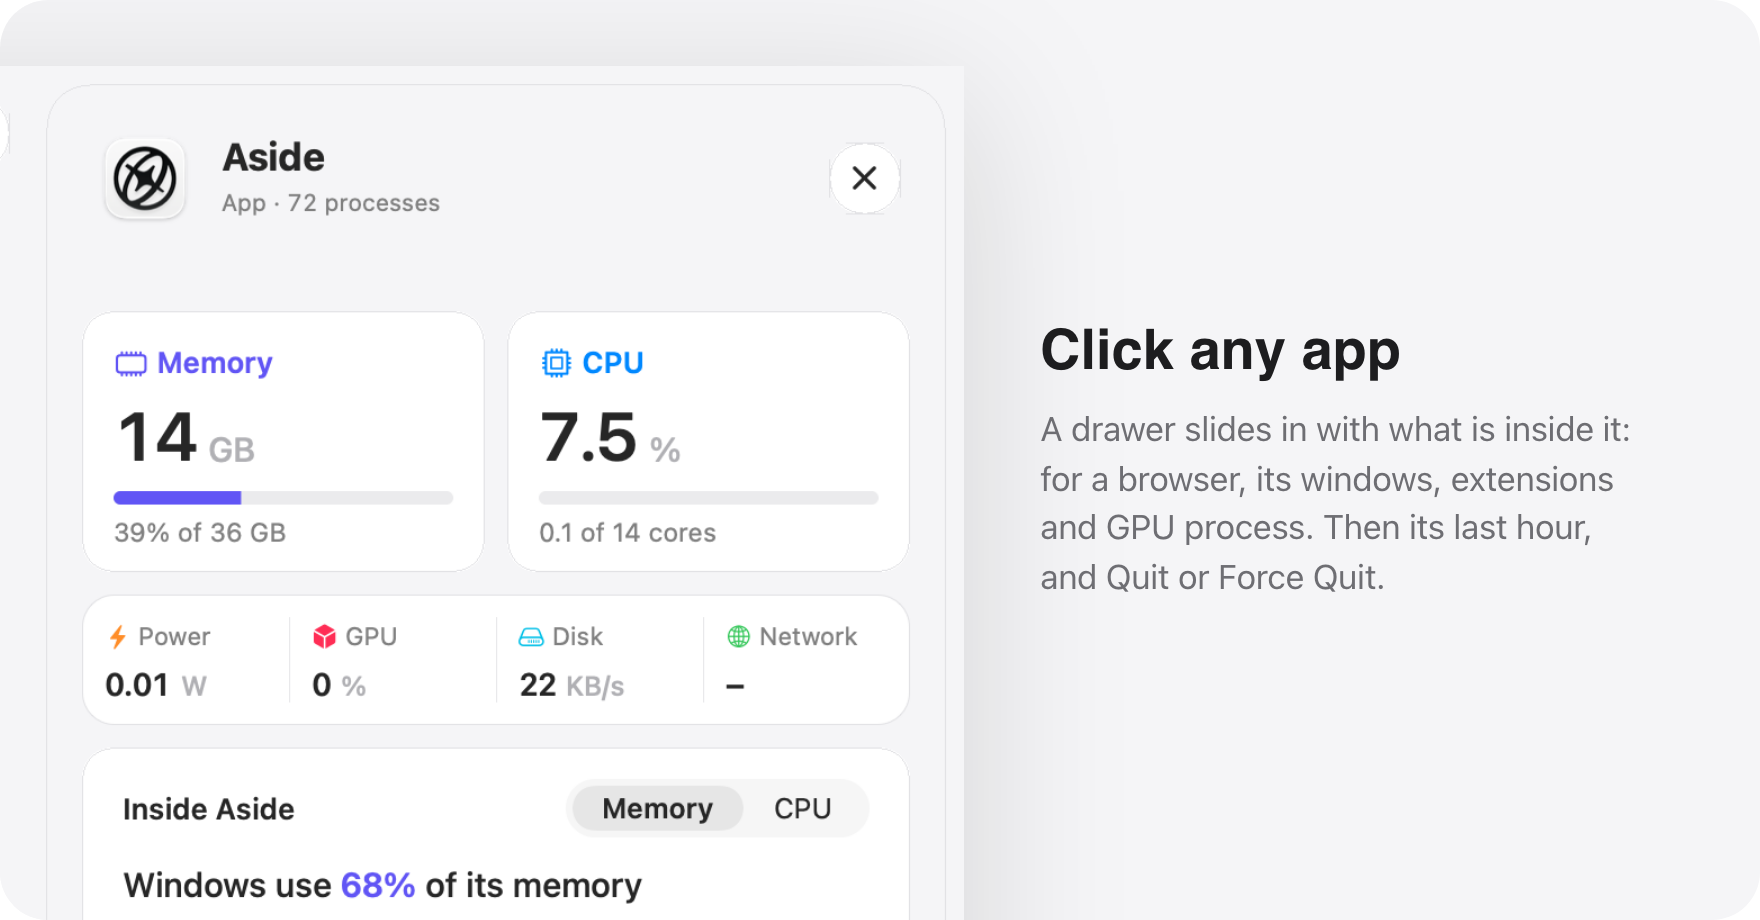
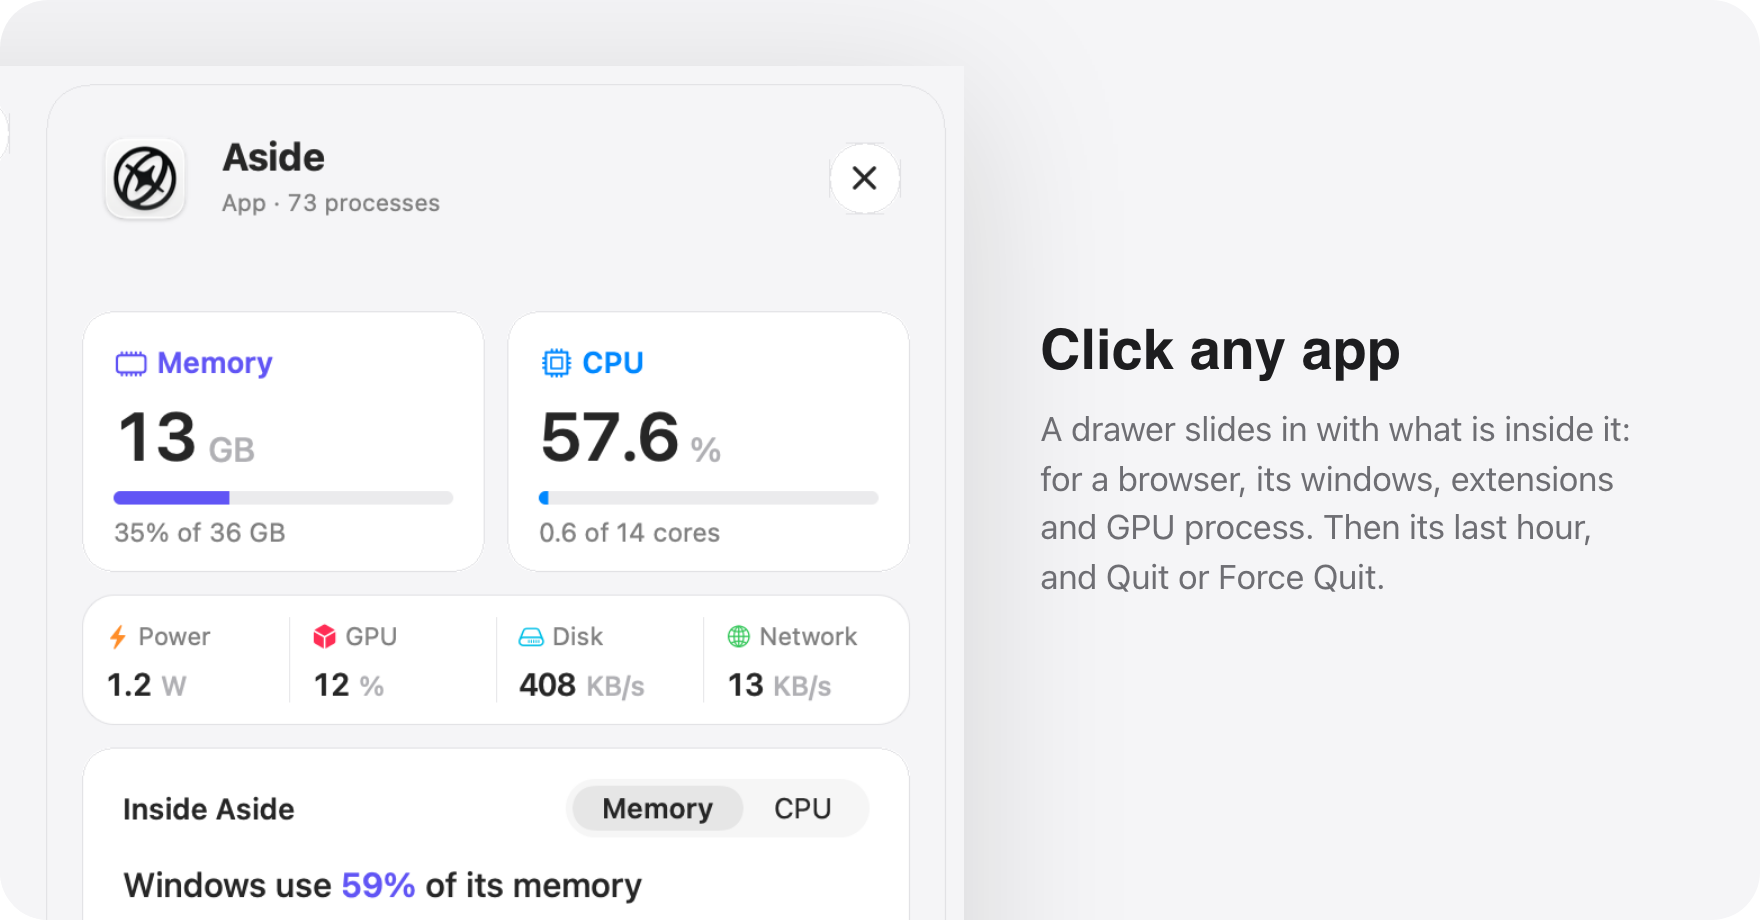
README: Why is it slow, Storage, Login & Background and per-app network, with new graphics

diff --git a/README.md b/README.md
@@ -4,7 +4,7 @@
 
 <h1 align="center">Wisp</h1>
 
-<p align="center">See which app is using your Mac, from a monitor that barely uses it.</p>
+<p align="center">Find out which app is slowing your Mac down and why, from a monitor that barely uses it.</p>
 
 <p align="center">
   <a href="https://wisp-mac.com">Website</a>
@@ -25,9 +25,11 @@
 
 Activity Monitor lists processes, and Chrome alone is forty of them. Wisp adds
 them up under the app they belong to and shows CPU, memory, GPU, power, disk and
-network per app, with a day of history by the minute and a year by the hour. It
-also keeps an eye on what developers leave running: dev servers and their ports,
-Docker containers, and coding agents like Claude Code and Codex.
+network per app, with a day of history by the minute and a year by the hour.
+Click Why Is It Slow? and it tells you in a sentence what is holding the Mac
+back. It also shows where your disk space went, what starts at login, and what
+developers leave running: dev servers and their ports, Docker containers, and
+coding agents like Claude Code and Codex.
 
 ## What it costs
 
@@ -73,8 +75,22 @@ this light and how to measure it yourself.</sub>
 
 <p>
 <picture>
+  <source media="(prefers-color-scheme: dark)" srcset="docs/images/why-dark.png">
+  <img src="docs/images/why-light.png" alt="Why Is It Slow? on the Overview page: limactl is holding 20 GB and macOS has compressed 12 GB to make room, and 21 dev servers are using 6.2 GB together. Each finding has a Show button.">
+</picture>
+</p>
+
+<p>
+<picture>
   <source media="(prefers-color-scheme: dark)" srcset="docs/images/drawer-dark.png">
-  <img src="docs/images/drawer-light.png" alt="Click any app: the drawer for the Aside browser shows 14 GB of memory, its CPU, power, GPU, disk and network, and what is inside it, with windows using 68% of its memory.">
+  <img src="docs/images/drawer-light.png" alt="Click any app: the drawer for the Aside browser shows 13 GB of memory, its CPU, power, GPU, disk and network, and what is inside it, with windows using 59% of its memory.">
+</picture>
+</p>
+
+<p>
+<picture>
+  <source media="(prefers-color-scheme: dark)" srcset="docs/images/storage-dark.png">
+  <img src="docs/images/storage-light.png" alt="The Storage page: 171 GB free of 995 GB, the disk split into apps, developer folders, documents and System Data, and the Developer list with Colima at 76 GB, Rust target folders at 50 GB and node_modules in 101 projects at 30 GB.">
 </picture>
 </p>
 
@@ -94,9 +110,17 @@ this light and how to measure it yourself.</sub>
 
 <br>
 
-- CPU, memory, GPU, Neural Engine, power, disk, network, sound, Bluetooth and
-  sensors, each with live, hourly and daily charts and the apps behind the
-  numbers. GPU time per app comes from the driver.
+- CPU, memory, GPU, Neural Engine, battery, storage, network, sound, Bluetooth
+  and sensors, each with live, hourly and daily charts and the apps behind the
+  numbers. Spikes on the charts are labelled with the app that caused them. GPU
+  time per app comes from the driver.
+- Storage: what fills the disk, including System Data and developer folders
+  like node_modules, DerivedData and VM disks. Items that are safe to remove go
+  to the Trash after you confirm.
+- Per app: the hosts it is connected to, the data it used this month, and the
+  disk space it takes, including caches and containers.
+- Login & Background: every launch agent, daemon and helper, who made it and
+  what it costs, with leftovers from deleted apps flagged.
 - Every project with something running, its servers and ports, and servers idle
   for 30 minutes. Containers from Docker Desktop, OrbStack, Colima, Rancher
   Desktop and Lima.
@@ -107,7 +131,7 @@ this light and how to measure it yourself.</sub>
 
 ## Install
 
-Download `Wisp-0.1.0.zip` from the
+Download `Wisp-0.2.0.zip` from the
 [latest release](https://github.com/current/wisp/releases/latest), unzip it and
 drag Wisp to Applications. You need macOS 15 or later on Apple silicon; Wisp
 looks its best on macOS 26.
@@ -140,6 +164,8 @@ ln -s /Applications/Wisp.app/Contents/Helpers/wisp /usr/local/bin/wisp
 wisp status              # the machine now and the five busiest apps
 wisp apps --sort memory
 wisp app Safari          # one app, its processes and the last hour
+wisp why                 # what is slowing the Mac down right now
+wisp storage             # disk space by kind and what can go
 wisp ports               # dev servers by project
 wisp agents
 wisp docker
